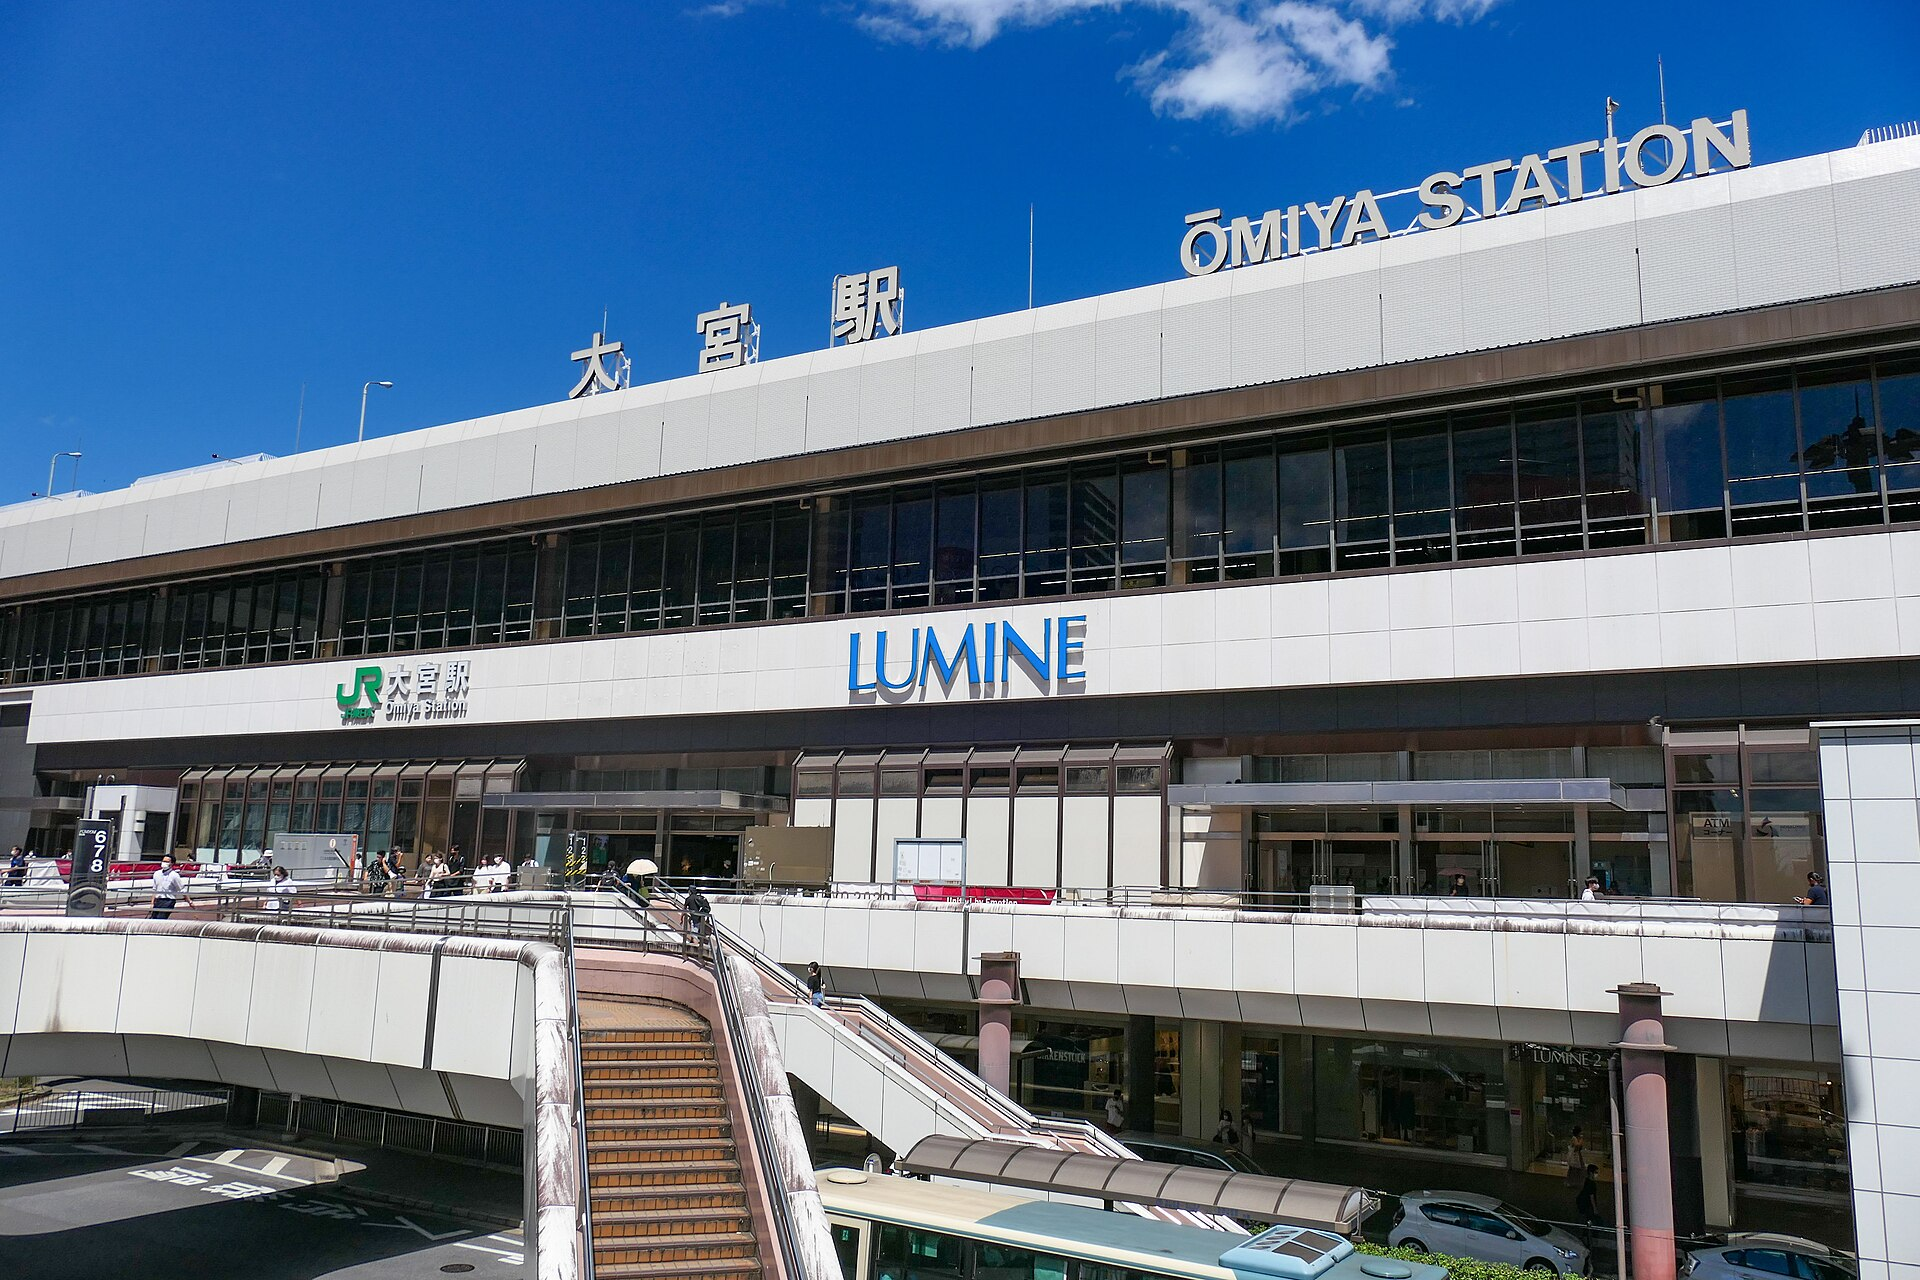
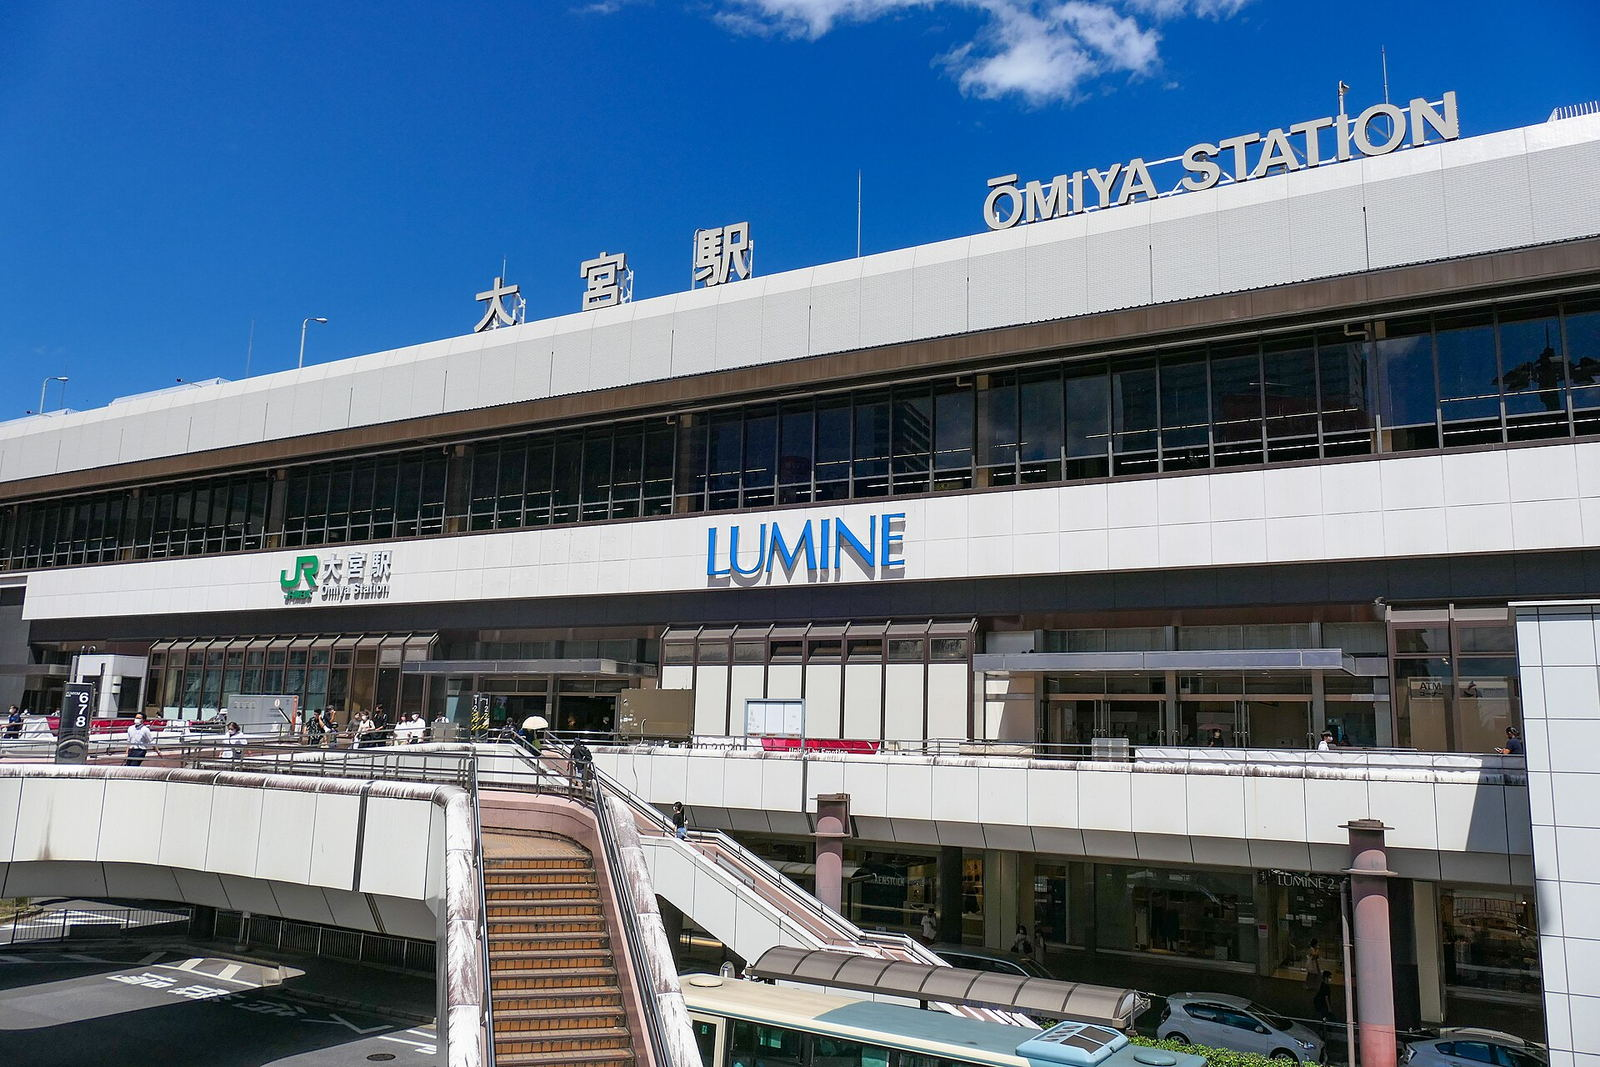
Halve the weight of the only large image above the fold
LCP p99 had been sitting around 11 s, which the README blamed on the gallery's
videos. That was wrong: those are fetched only when a card is opened. The
actual weight was the home page's hero photograph — 551 KB, loaded eagerly,
and the one large thing a visitor waits for before the page looks finished.

It is 1920 px wide and displayed in a frame that crops roughly half the width
away, so 1600 px at quality 78 is indistinguishable side by side and costs
296 KB. mic.jpg gets the same treatment. The hero also gains
fetchpriority="high", so the browser stops guessing about it.

The width/height attributes follow the files, and CLS stays at zero.

diff --git a/en/index.html b/en/index.html
@@ -155,7 +155,7 @@
 
       <div class="hero__visual">
         <figure class="hero__photo">
-          <img src="../assets/img/omiya-station.jpg" alt="The west exit of JR Omiya Station" width="1920" height="1280">
+          <img src="../assets/img/omiya-station.jpg" fetchpriority="high" decoding="async" alt="The west exit of JR Omiya Station" width="1600" height="1067">
         </figure>
         <div class="circles hero__circles" aria-hidden="true">
           <span></span><span></span><span></span><span></span>

diff --git a/parts/en/hero.html b/parts/en/hero.html
@@ -26,7 +26,7 @@
 
       <div class="hero__visual">
         <figure class="hero__photo">
-          <img src="./assets/img/omiya-station.jpg" alt="The west exit of JR Omiya Station" width="1920" height="1280">
+          <img src="./assets/img/omiya-station.jpg" fetchpriority="high" decoding="async" alt="The west exit of JR Omiya Station" width="1600" height="1067">
         </figure>
         <div class="circles hero__circles" aria-hidden="true">
           <span></span><span></span><span></span><span></span>

diff --git a/index.html b/index.html
@@ -155,7 +155,7 @@
 
       <div class="hero__visual">
         <figure class="hero__photo">
-          <img src="./assets/img/omiya-station.jpg" alt="JR大宮駅西口の駅舎" width="1920" height="1280">
+          <img src="./assets/img/omiya-station.jpg" fetchpriority="high" decoding="async" alt="JR大宮駅西口の駅舎" width="1600" height="1067">
         </figure>
         <div class="circles hero__circles" aria-hidden="true">
           <span></span><span></span><span></span><span></span>

diff --git a/parts/hero.html b/parts/hero.html
@@ -26,7 +26,7 @@
 
       <div class="hero__visual">
         <figure class="hero__photo">
-          <img src="./assets/img/omiya-station.jpg" alt="JR大宮駅西口の駅舎" width="1920" height="1280">
+          <img src="./assets/img/omiya-station.jpg" fetchpriority="high" decoding="async" alt="JR大宮駅西口の駅舎" width="1600" height="1067">
         </figure>
         <div class="circles hero__circles" aria-hidden="true">
           <span></span><span></span><span></span><span></span>

diff --git a/en/about.html b/en/about.html
@@ -92,7 +92,7 @@
 
           <div class="about__media reveal" data-delay="1">
             <figure class="about__photo">
-              <img src="../assets/img/mic.jpg" alt="A microphone standing in a rehearsal studio" width="1920" height="1280" loading="lazy">
+              <img src="../assets/img/mic.jpg" alt="A microphone standing in a rehearsal studio" width="1600" height="1067" loading="lazy">
             </figure>
           </div>
         </div>

diff --git a/parts/en/about.html b/parts/en/about.html
@@ -30,7 +30,7 @@
 
           <div class="about__media reveal" data-delay="1">
             <figure class="about__photo">
-              <img src="./assets/img/mic.jpg" alt="A microphone standing in a rehearsal studio" width="1920" height="1280" loading="lazy">
+              <img src="./assets/img/mic.jpg" alt="A microphone standing in a rehearsal studio" width="1600" height="1067" loading="lazy">
             </figure>
           </div>
         </div>

diff --git a/about.html b/about.html
@@ -93,7 +93,7 @@
 
           <div class="about__media reveal" data-delay="1">
             <figure class="about__photo">
-              <img src="./assets/img/mic.jpg" alt="スタジオに立てられたマイク" width="1920" height="1280" loading="lazy">
+              <img src="./assets/img/mic.jpg" alt="スタジオに立てられたマイク" width="1600" height="1067" loading="lazy">
             </figure>
           </div>
         </div>

diff --git a/parts/about.html b/parts/about.html
@@ -31,7 +31,7 @@
 
           <div class="about__media reveal" data-delay="1">
             <figure class="about__photo">
-              <img src="./assets/img/mic.jpg" alt="スタジオに立てられたマイク" width="1920" height="1280" loading="lazy">
+              <img src="./assets/img/mic.jpg" alt="スタジオに立てられたマイク" width="1600" height="1067" loading="lazy">
             </figure>
           </div>
         </div>
